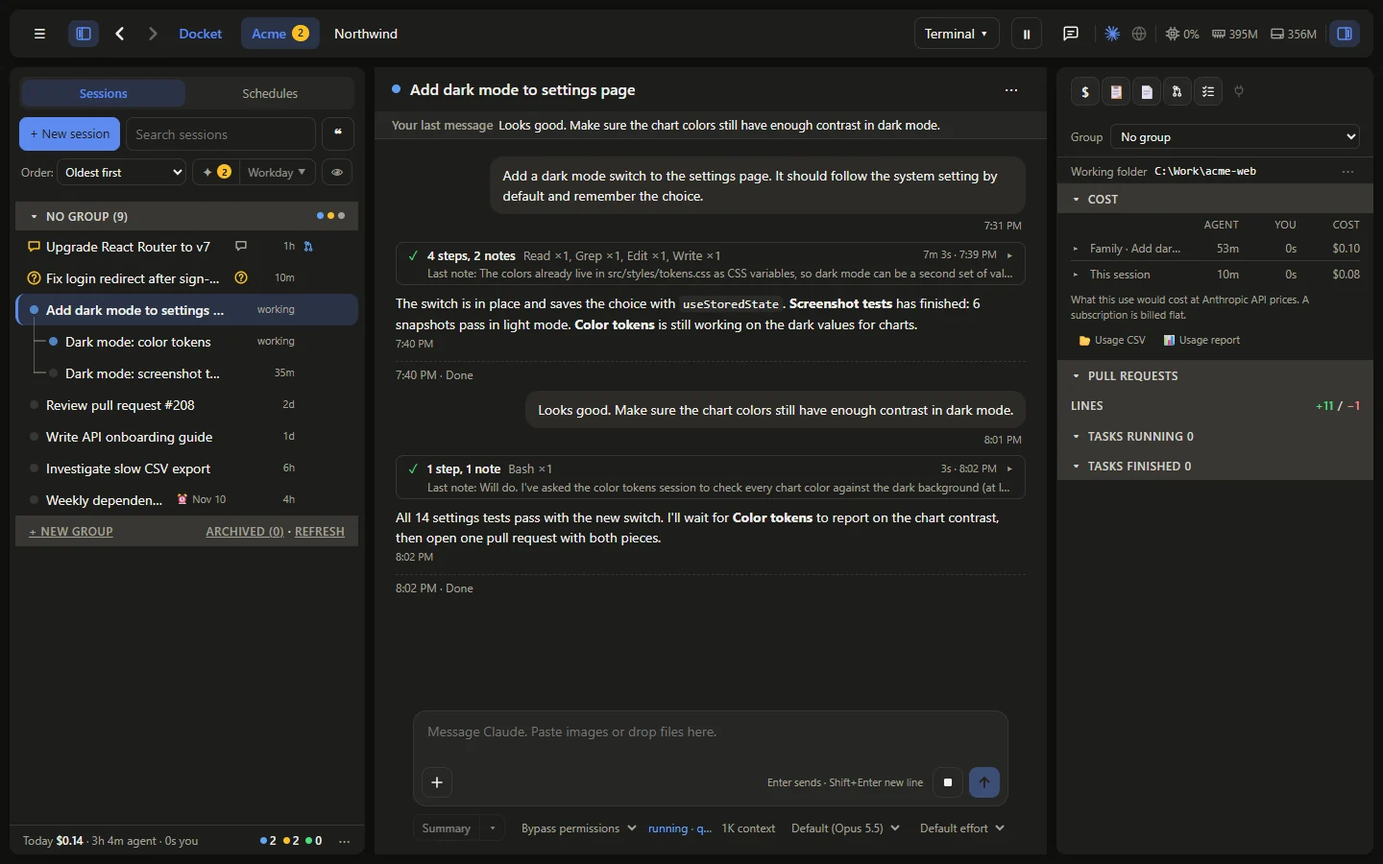
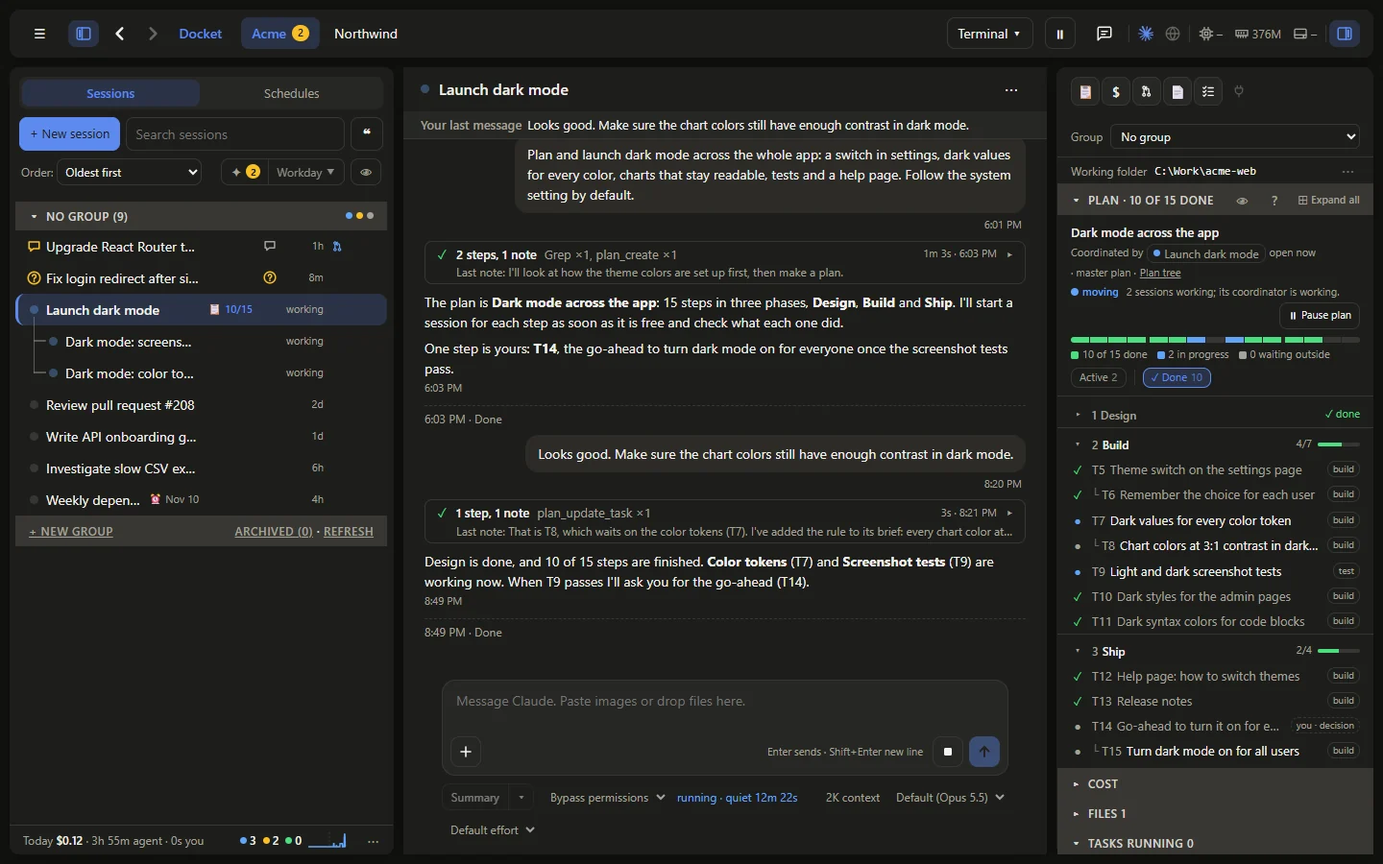
Docket 1.190.0

diff --git a/index.html b/index.html
@@ -572,6 +572,34 @@ select option:disabled { color: var(--muted); }
 .scard .cross-text { color: var(--text); border: 1px solid var(--line); border-radius: 6px; padding: 6px 8px; margin-top: 4px; max-height: 240px; }
 #inbox { max-height: 40vh; overflow: auto; flex: none; }
 .inbox-cards { padding: 6px 8px 8px; display: grid; gap: 6px; }
+/* Work handed over from another desk, and its card in the sending chat (#904) */
+.scard.inbox-card { border: 1px solid var(--accent); background: var(--accent-soft); }
+.scard.inbox-card .sk { text-transform: none; letter-spacing: 0; font-size: 12px; }
+.scard.inbox-card .sb { color: var(--text); display: -webkit-box; -webkit-line-clamp: 3; -webkit-box-orient: vertical; overflow: hidden; max-height: none; }
+.scard.inbox-card .sbtn, .scard.xh .sbtn { flex-wrap: wrap; }
+.scard.inbox-card .sbtn button, .scard.xh .sbtn button { white-space: nowrap; }
+.scard.inbox-card textarea { width: 100%; min-height: 90px; font: inherit; font-size: 12px; }
+.scard .x-report { display: flex; gap: 6px; align-items: flex-start; font-size: 12px; color: var(--muted); margin-top: 6px; }
+.scard.flash { animation: plan-flash 1.5s 2; }
+.scard.xh { background: var(--panel-2); }
+.scard.xh.done { border-left-color: var(--line); }
+.scard.xh .sk { display: flex; gap: 6px; align-items: center; flex-wrap: wrap; text-transform: none; letter-spacing: 0; font-size: 12px; }
+button.xlink { border-color: transparent; color: var(--accent); }
+button.xlink:hover { background: var(--accent-soft); }
+.xh-pill { font-size: 11px; border-radius: 999px; padding: 1px 8px; background: var(--accent-soft); color: var(--accent); font-weight: 600; }
+.xh-pill.plain { background: transparent; color: var(--muted); border: 1px solid var(--line); }
+.xh-pill.run { background: transparent; color: var(--run); border: 1px solid var(--run); }
+.xh-pill.ok { background: transparent; color: var(--ok); border: 1px solid var(--ok); }
+.scard.xh.ok { border-left-color: var(--ok); }
+.xh-track { display: flex; font-size: 11px; color: var(--muted); margin: 6px 0 2px; }
+.xh-track span { flex: 1; border-top: 3px solid var(--line); padding-top: 4px; }
+.xh-track span.on { border-color: var(--accent); color: var(--text); }
+.scard.xh .xh-said { border-left: 3px solid var(--line); padding: 2px 10px; font-size: 13px; color: var(--muted); white-space: pre-wrap; margin-top: 4px; }
+.cross-strip { display: flex; gap: 8px; align-items: center; flex-wrap: wrap; padding: 6px 18px; background: var(--panel-2); border-bottom: 1px solid var(--line); font-size: 12px; }
+.cross-strip[hidden] { display: none; }
+.cross-strip a { color: var(--accent); text-decoration: none; }
+.cross-strip a:hover { text-decoration: underline; }
+#clients button.arrived { animation: plan-flash 1s 3; outline: 2px solid var(--accent); outline-offset: -2px; }
 .scard a, .child-report a { color: var(--accent); }
 .child-report { font-size: 13px; color: var(--muted); border-left: 3px solid var(--line); padding: 4px 10px; }
 .child-report .ct { white-space: pre-wrap; }
@@ -1645,6 +1673,7 @@ try { const get = (k) => JSON.parse(localStorage.getItem(k)); applyAccent((get('
     <div class="main-head" id="head"></div>
     <div class="cfg-banner" id="cfgBanner" role="status" hidden><span id="cfgText"></span><button id="cfgReload" data-tip="cfg-reload">Reload</button></div>
     <div class="cut-banner" id="cutBanner" role="status" hidden><span id="cutWhy">Docket stopped unexpectedly partway through this session's turn, so its reply was cut off.</span><button id="cutContinue" data-tip="cut-continue">Continue</button></div>
+    <div class="cross-strip" id="crossStrip" role="status" hidden></div>
     <button class="last-msg" id="lastMsg" hidden data-tip="last-msg"><div class="lm-text"><span class="lm-label">Your last message</span><span id="lastMsgText"></span></div></button>
     <div class="card-strip" id="cardStrip" hidden role="region" aria-label="Cards waiting on you"></div>
     <div class="tl-bar" id="tlBar" hidden aria-label="Timeline in the chat"></div>
@@ -1921,8 +1950,19 @@ const HELP = [
     ['prop-dismiss', 'Dismiss', 'Turn the suggestion down'],
     ['cross-send', 'Send', 'Send exactly this text to the other desk. This session can then reach that desk again without asking, until it ends'],
     ['cross-stop', 'Don\'t send', 'Send nothing to the other desk'],
-    ['inbox-start', 'Start', 'Start this work as a session in this desk, on its own sign-in and billing'],
+    ['inbox-start', 'Accept and start', 'Start this work as a session in this desk, on its own sign-in and billing'],
     ['inbox-dismiss', 'Dismiss', 'Turn this work down; nothing runs'],
+    ['inbox-edit', 'Edit brief', 'Change the brief before you start it'],
+    ['inbox-text', 'Brief', 'The brief the new session gets as its first message'],
+    ['inbox-save', 'Save brief', 'Keep this brief; the sender\'s card shows it too'],
+    ['inbox-cancel', 'Cancel', 'Put the brief back as it was'],
+    ['xh-from', 'Sending session', 'Open the session that handed this work over, in its own desk'],
+    ['inbox-report', 'Tell the sender', 'When ticked, the session that sent this hears when it starts and gets the closing reply of each turn, never the chat'],
+    ['inbox-quiet', 'Stop reporting', 'Stop telling the desk that sent this work how it goes'],
+    ['xh-go', 'Go to the desk and start', 'Switch to the desk the work waits in and show its card there'],
+    ['xh-back', 'Take it back', 'Take the card out of the other desk\'s list; nothing runs there'],
+    ['xh-brief', 'See brief', 'Show or hide the brief that was sent'],
+    ['xh-open', 'Open', 'Open the session in the other desk'],
     ['offer-new', 'New session', 'Do this work in its own new session'],
     ['offer-here', 'Do it here', 'Do this work in this session instead'],
     ['hoff-continue', 'Continue in new session', 'Carry this work on in a fresh session that takes this one\'s place'],
@@ -2516,6 +2556,8 @@ const needIcon = (l) => l === 'merge' ? prIcon('merged') : `<svg viewBox="0 0 16
   problem: `<path d="M8 1.9 14.6 13.4H1.4Z" ${NEED_SVG}/><path d="M8 6.2v3.3" ${NEED_SVG} stroke-width="1.9"/><circle cx="8" cy="11.5" r=".95" fill="currentColor"/>`
 }[l]}</svg>`;
 const needMark = (l, as = S.reasonTags) => as === 'icons' ? `<span class="nic need-${l}" title="${l}: ${esc(NEED_TIPS[l])}" aria-label="${l}">${needIcon(l)}</span>` : `<span class="tag need need-${l}" title="${esc(NEED_TIPS[l])}">${l}</span>`;
+// Work it handed to another desk waits there for Accept and start (#904).
+const waitsTag = (s) => s.waitsIn?.length ? `<span class="tag waits-in" title="${esc(`Work this session handed over waits for you to accept it in ${s.waitsIn.join(', ')}`)}">waiting in ${esc(s.waitsIn.join(', '))}</span>` : '';
 const needTag = (s) => { if (S.reasonTags === 'off' || !needsYou(s)) return ''; const l = needLabel(s, openPR(s.id)); return l === 'problem' ? '' : needMark(l); };
 // The title a dot carries: the error for a red ring, what resting means for a hollow green one.
 const dotTip = (s, c = dotClass(s)) => c === 'failed' ? ` title="${esc(failedTip(s))}"` : c === 'asking' ? ' title="Waiting on your answer: the session is paused on a question or a permission prompt"' : c === 'resting' ? ` title="${RESTING_TIP}"` : c === 'childwait' || c === 'childnews' ? ` title="${esc(kidsText(s))}"` : '';
@@ -2709,12 +2751,14 @@ function waitingCount(clientId) {
 function shownDesks() { return S.clients.filter((c) => !c.hidden); }
 // The autopilot's desk (#886) shows a robot wherever desks are named; the server lists it first.
 const deskName = (c) => `${c.pilot ? '<span class="pilot-mark" aria-label="Autopilot desk">🤖</span> ' : ''}${esc(c.name)}`;
+const deskArrived = {}; // desk id -> when work handed over from another desk arrived there: its tab flashes (#904)
 function renderClients() {
   if (menuHold(renderClients)) return; // waits while a menu is open (menu hold)
   $('clients').innerHTML = shownDesks().map((c) => {
     const n = waitingCount(c.id);
     const rc = remoteMarkTip(c);
-    return `<button class="${c.id === S.client ? 'on' : ''}" data-c="${c.id}" title="${esc(`${c.name}${c.forced ? '\n' + c.forced : ''}\n\n${tipText('company')}`)}"><span class="cn">${deskName(c)}</span>${rc ? `<span class="rc-mark" title="${esc(rc)}" aria-label="Remote connection on">📡</span>` : ''}${c.signedIn === false ? '<span class="warn-mark">!</span>' : ''}${n ? `<span class="badge">${n}</span>` : ''}</button>`;
+    const arrived = Date.now() - (deskArrived[c.id] || 0) < 3000 && c.id !== S.client;
+    return `<button class="${c.id === S.client ? 'on' : ''}${arrived ? ' arrived' : ''}" data-c="${c.id}" title="${esc(`${c.name}${c.forced ? '\n' + c.forced : ''}\n\n${tipText('company')}`)}"><span class="cn">${deskName(c)}</span>${rc ? `<span class="rc-mark" title="${esc(rc)}" aria-label="Remote connection on">📡</span>` : ''}${c.signedIn === false ? '<span class="warn-mark">!</span>' : ''}${n ? `<span class="badge">${n}</span>` : ''}</button>`;
   }).join('');
   const total = waitingCount(S.client);
   const name = S.clients.find((c) => c.id === S.client)?.name;
@@ -4857,7 +4901,7 @@ function sessionRow(s, depth, rail = '', parent = false) {
   const tb = timeBit(s);
   const pin = !s.archived && pinnedHere(s.id) ?`<span class="pin" title="Pinned: ✦ Needs attention keeps it until you unpin it (right-click it)">📌</span>` : '';
   return `<div class="row ${depth ? 'child' : ''} ${parent ? 'parent' : ''} ${sel ? 'sel' : ''} ${s.archived && !S.showArchived ? 'archived' : ''} ${S.picked.has(s.id) ? 'picked' : ''} ${snip ? 'has-snip' : ''}"${depth > 1 ? ` style="--d:${depth}"` : ''} data-id="${s.id}"${moveDrag() ? ' draggable="true"' : ''}${S.hoverCard ? '' : ` title="${esc((run?.title || s.title) || 'Untitled')}"`}>
-      ${rail}${rowDot(s)}<span class="t ${dotClass(s) === 'asking' ? 'asking' : ''}"${full ? ` title="Nearly full: ${ctxPct(s.stats)}% of the way to auto-compact"` : ''}>${esc((run?.title || s.title) || 'Untitled')}</span>${pin}${full ? `<span class="tag near-full ctx-pct" title="Nearly full: ${ctxPct(s.stats)}% of the way to auto-compact">${ctxPct(s.stats)}%</span>` : ''}${stalledTag(s)}${configTag(s)}${s.archived && !S.showArchived ? '<span class="tag" title="Archived. Shown here because it is open.">archived</span>' : ''}${s.scheduleId ? `<span class="sch" title="Started by a schedule${run ? ` on ${runDate(s)}` : ''}${run && run.runs.length > 1 ? `. This is the newest of its ${run.runs.length} runs; the Details panel lists them all` : ''}">⏰${run ? `<span class="rundate">${runDate(s)}</span>` : ''}</span>` : ''}${more}<span class="cplan">${planBadge(s.id)}</span><span class="cneed">${needTag(s)}</span>${costCell(s, run)}
+      ${rail}${rowDot(s)}<span class="t ${dotClass(s) === 'asking' ? 'asking' : ''}"${full ? ` title="Nearly full: ${ctxPct(s.stats)}% of the way to auto-compact"` : ''}>${esc((run?.title || s.title) || 'Untitled')}</span>${pin}${full ? `<span class="tag near-full ctx-pct" title="Nearly full: ${ctxPct(s.stats)}% of the way to auto-compact">${ctxPct(s.stats)}%</span>` : ''}${stalledTag(s)}${configTag(s)}${waitsTag(s)}${s.archived && !S.showArchived ? '<span class="tag" title="Archived. Shown here because it is open.">archived</span>' : ''}${s.scheduleId ? `<span class="sch" title="Started by a schedule${run ? ` on ${runDate(s)}` : ''}${run && run.runs.length > 1 ? `. This is the newest of its ${run.runs.length} runs; the Details panel lists them all` : ''}">⏰${run ? `<span class="rundate">${runDate(s)}</span>` : ''}</span>` : ''}${more}<span class="cplan">${planBadge(s.id)}</span><span class="cneed">${needTag(s)}</span>${costCell(s, run)}
       <span class="meta ${tb[0]}" title="${esc(tb[2])}">${isMuted(s.id) ? '<span title="Chime muted">🔕 </span>' : ''}${s.runningTasks ? `⚙${s.runningTasks} ` : ''}${tb[0].startsWith('warn') ? `<span class="tpill${tb[0].endsWith('end') ? ' end' : ''}">${tb[1]}</span>` : tb[1]}</span>${rowLogo(s)}<span class="chips">${prBadges(s.id)}</span>${snip}</div>`;
 }
 // ---------- the hover card (#691): a row's full title and every detail, while 👁 > Hover card is on ----------
@@ -5059,22 +5103,83 @@ for (const area of ['list', 'listBar']) {
   });
   $(area).addEventListener('focusout', () => setTimeout(releaseList));
 }
-// Work another company handed over, at the top of this company's list until Start or Dismiss.
+// Work another company handed over, at the top of this company's list until Accept and start or Dismiss (#904).
+// The report-back box is ticked by default; Edit brief changes the brief before it starts.
+const inboxEditing = new Map(); // inbox id -> the brief being edited, so a list redraw keeps it
+const inboxQuiet = new Set(); // inbox ids whose report-back box was unticked, so a list redraw keeps that
 function inboxHtml() {
   const items = S.inbox[S.client] || [];
   if (!items.length) return '';
-  return `<div class="group"><span>Handed over from other desks (${items.length})</span></div><div class="inbox-cards">` + items.map((it) =>
-    `<div class="scard" data-card="${esc(it.id)}"><div class="sk">From ${esc(it.fromName)}${it.fromTitle ? ` · "${esc(it.fromTitle)}"` : ''}</div><div class="st">${esc(it.title)}</div><div class="sb">${esc(it.brief)}</div>`
-    + `<div class="sbtn"><button class="primary" data-inbox="${esc(it.id)}" data-act="start"${tip('inbox-start')}>Start</button><button data-inbox="${esc(it.id)}" data-act="dismiss"${tip('inbox-dismiss')}>Dismiss</button></div></div>`).join('') + '</div>';
+  return `<div class="group"><span>Waiting for you to accept (${items.length})</span></div><div class="inbox-cards">` + items.map((it) => {
+    const id = esc(it.id), editing = inboxEditing.has(it.id);
+    return `<div class="scard inbox-card" data-card="${id}"><div class="sk">From <b>${esc(it.fromName)}</b>${it.fromTitle ? ` · "${esc(it.fromTitle)}"` : ''}${it.at ? ` · ${esc(agoText(it.at))}` : ''}</div><div class="st">${esc(it.title)}</div>`
+      + (editing ? `<textarea data-inbox-text="${id}" aria-label="Brief"${tip('inbox-text')}>${esc(inboxEditing.get(it.id))}</textarea>` : `<div class="sb" title="${esc(it.brief)}">${esc(it.brief)}</div>`)
+      + `<label class="x-report"><input type="checkbox" data-inbox-report="${id}"${inboxQuiet.has(it.id) ? '' : ' checked'}${tip('inbox-report')}> Tell ${esc(it.fromName)} when it starts and finishes (the closing reply only, never the chat)</label>`
+      + `<div class="sbtn"><button class="primary" data-inbox="${id}" data-act="start"${tip('inbox-start')}>Accept and start</button><button data-inbox="${id}" data-act="dismiss"${tip('inbox-dismiss')}>Dismiss</button>`
+      + (editing ? `<button data-inbox="${id}" data-act="brief"${tip('inbox-save')}>Save brief</button><button class="xlink" data-inbox-edit="${id}" data-cancel="1"${tip('inbox-cancel')}>Cancel</button>` : `<button class="xlink" data-inbox-edit="${id}"${tip('inbox-edit')}>Edit brief</button>`) + '</div></div>';
+  }).join('') + '</div>';
 }
+document.addEventListener('change', (e) => {
+  const c = e.target.closest('[data-inbox-report]'); if (!c) return;
+  if (c.checked) inboxQuiet.delete(c.dataset.inboxReport); else inboxQuiet.add(c.dataset.inboxReport);
+});
+document.addEventListener('input', (e) => { const t = e.target.closest('[data-inbox-text]'); if (t) inboxEditing.set(t.dataset.inboxText, t.value); });
+document.addEventListener('click', (e) => {
+  const b = e.target.closest('[data-inbox-edit]'); if (!b) return;
+  const id = b.dataset.inboxEdit, it = (S.inbox[S.client] || []).find((x) => x.id === id);
+  if (b.dataset.cancel || !it) inboxEditing.delete(id); else inboxEditing.set(id, it.brief);
+  renderList();
+  if (inboxEditing.has(id)) document.querySelector(`[data-inbox-text="${CSS.escape(id)}"]`)?.focus();
+});
 document.addEventListener('click', async (e) => {
   const b = e.target.closest('[data-inbox]'); if (!b) return;
+  const id = b.dataset.inbox, act = b.dataset.act;
   const card = b.closest('[data-card]'); for (const x of card.querySelectorAll('button')) x.disabled = true;
+  const body = act === 'start' ? { report: !inboxQuiet.has(id) } : act === 'brief' ? { brief: inboxEditing.get(id) || '' } : {};
   try {
-    const r = await api(`/api/inbox/${b.dataset.inbox}/${b.dataset.act}?client=${S.client}`, {});
+    if (act === 'start' && inboxEditing.has(id)) await api(`/api/inbox/${id}/brief?client=${S.client}`, { brief: inboxEditing.get(id) }); // starts with what is in the box
+    const r = await api(`/api/inbox/${id}/${act}?client=${S.client}`, body);
+    inboxEditing.delete(id); if (act !== 'brief') inboxQuiet.delete(id);
     await loadSessions(S.client); renderList(); renderClients();
-    if (b.dataset.act === 'start' && r?.id) openSession(r.id);
+    if (act === 'start' && r?.id) openSession(r.id);
   } catch (err) { tell(err.message); for (const x of card.querySelectorAll('button')) x.disabled = false; }
+});
+// The card in the chat that handed work to another desk (#904): it follows the work there through Sent, Started, Done.
+function deskHandoffHtml(ev) {
+  const d = esc(ev.toName || 'the other desk'), id = esc(ev.id);
+  const st = ev.state, gone = st === 'withdrawn' || st === 'dismissed';
+  if (gone) return `<div class="scard done slim" data-card="${id}">Handed to ${d}: <b>${esc(ev.title)}</b>, ${st === 'withdrawn' ? 'taken back' : `dismissed in ${d}`}${earlier(ev)}</div>`;
+  const pill = st === 'open' ? `<span class="xh-pill">Waiting for you in ${d}</span>` : st === 'done' ? `<span class="xh-pill ok">Done in ${d}</span>`
+    : ev.report ? `<span class="xh-pill run">Running in ${d}</span>` : `<span class="xh-pill plain">Started in ${d}</span>`;
+  const quiet = st !== 'open' && !ev.report && st !== 'done';
+  const track = quiet ? '' : `<div class="xh-track"><span class="on">Sent</span><span${ev.startedAt ? ' class="on"' : ''}>Started${ev.startedAt ? ' ' + esc(stamp(ev.startedAt)) : ''}</span><span${st === 'done' ? ' class="on"' : ''}>Done${ev.doneAt ? ' ' + esc(stamp(ev.doneAt)) : ''}</span></div>`;
+  const line = st === 'open' ? `<div class="sb">Nothing runs until you press <b>Accept and start</b> in ${d}'s list. It runs on ${d}'s sign-in and bills to ${d}.</div>`
+    : quiet ? `<div class="sb">${d} started it and chose not to report back. Its progress stays in ${d}.</div>` : '';
+  const said = st === 'done' && ev.text ? `<div class="xh-said">${esc(ev.text)}${ev.text.length >= 400 ? '…' : ''}</div>` : '';
+  const brief = `<div class="sb cross-text" data-xh-brief hidden>${esc(ev.brief || '')}</div>`;
+  const btns = st === 'open'
+    ? `<button class="primary" data-xh="go"${tip('xh-go')}>Go to ${d} and start ›</button><button data-xh="back"${tip('xh-back')}>Take it back</button><button class="xlink" data-xh="brief" aria-expanded="false"${tip('xh-brief')}>See brief</button>`
+    : `${ev.childId ? `<button class="xlink" data-xh="open"${tip('xh-open')}>Open in ${d} ›</button>` : ''}<button class="xlink" data-xh="brief" aria-expanded="false"${tip('xh-brief')}>See brief</button>`;
+  return `<div class="scard xh${st === 'open' ? '' : st === 'done' ? ' ok' : ' done'}" data-card="${id}" data-to="${esc(ev.to)}"${ev.childId ? ` data-child="${esc(ev.childId)}"` : ''}><div class="sk">Handed to <b>${d}</b> ${pill}${earlier(ev)}</div><div class="st">${esc(ev.title)}</div>${line}${track}${said}${brief}<div class="sbtn">${btns}</div></div>`;
+}
+document.addEventListener('click', async (e) => {
+  const b = e.target.closest('[data-xh]'); if (!b) return;
+  const card = b.closest('[data-card]'), id = card.dataset.card, to = card.dataset.to;
+  if (b.dataset.xh === 'brief') { const sb = card.querySelector('[data-xh-brief]'); sb.hidden = !sb.hidden; b.setAttribute('aria-expanded', String(!sb.hidden)); b.textContent = sb.hidden ? 'See brief' : 'Hide brief'; return; }
+  if (b.dataset.xh === 'open') { selectClient(to, card.dataset.child); return; }
+  if (b.dataset.xh === 'go') { // switch desk, then show its card in the list and flash it
+    if (!S.clients.some((c) => c.id === to)) { tell('That desk is not in this Docket any more.'); return; }
+    if (S.mode !== 'sessions') setMode('sessions');
+    selectClient(to);
+    await loadSessions(to).catch(() => {}); renderList();
+    const el = $('inbox').querySelector(`[data-card="${CSS.escape(id)}"]`);
+    if (el) { el.scrollIntoView({ block: 'nearest' }); el.classList.remove('flash'); void el.offsetWidth; el.classList.add('flash'); el.querySelector('button.primary')?.focus(); }
+    else tell('That card is no longer waiting there.');
+    return;
+  }
+  for (const x of card.querySelectorAll('button')) x.disabled = true;
+  try { await api(`/api/inbox/${id}/withdraw?client=${to}`, {}); }
+  catch (err) { tell(err.message); for (const x of card.querySelectorAll('button')) x.disabled = false; }
 });
 document.addEventListener('click', async (e) => {
   const b = e.target.closest('[data-cross]'); if (!b) return;
@@ -8041,6 +8146,19 @@ function renderStatusBit(s) {
   el.textContent = el.title = st[1];
   tick();
 }
+// A session started from work another desk handed over says where it came from, and whether it reports back (#904).
+function renderCrossStrip(s) {
+  const x = s?.crossIn, el = $('crossStrip');
+  el.hidden = !x; if (!x) return;
+  el.innerHTML = `Handed over from <b>${esc(x.deskName)}</b>${x.title ? ` · <a href="#session:${esc(x.session)}" data-desk="${esc(x.desk)}"${tip('xh-from')}>"${esc(x.title)}"</a>` : ''}`
+    + (x.report ? ` <span class="xh-pill ok">reports back</span> <button class="xlink" data-cross-quiet="${esc(x.inbox)}"${tip('inbox-quiet')}>Stop reporting</button>` : ' <span class="xh-pill plain">not reporting back</span>');
+}
+document.addEventListener('click', async (e) => {
+  const b = e.target.closest('[data-cross-quiet]'); if (!b) return;
+  b.disabled = true;
+  try { await api(`/api/inbox/${b.dataset.crossQuiet}/quiet?client=${S.client}`, {}); }
+  catch (err) { tell(err.message); b.disabled = false; }
+});
 function renderHead() {
   renderSigninNeed();
   if (menuHold(renderHead)) return; // waits while a menu is open (menu hold)
@@ -8051,6 +8169,7 @@ function renderHead() {
   renderCfgBanner();
   const s = S.schedOpen ? null : current();
   renderStatusBit(s);
+  renderCrossStrip(s);
   if (S.schedOpen) return renderScheduleHead();
   if (!s) return;
   if (POPOUT) renderClients(); // the window's title is the session's
@@ -8169,7 +8288,7 @@ function eventHtml(ev) {
       const asks = ev.kind === 'ask';
       const head = asks ? `Ask ${esc(ev.toName)} this question?` : `Hand this work to ${esc(ev.toName)}?`;
       const what = asks ? `A short read-only session in ${esc(ev.toName)} will search its past sessions and answer. Only its answer comes back here.`
-        : `It goes to ${esc(ev.toName)}'s session list as a card. Nothing runs until you press Start there, and it bills to ${esc(ev.toName)}.`;
+        : `It goes to ${esc(ev.toName)}'s session list as a card. Nothing runs until you press Accept and start there, and it bills to ${esc(ev.toName)}.`;
       const tail = ev.state === 'pending' ? `<div class="sbtn"><button class="primary" data-cross="${esc(ev.id)}" data-send="1"${tip('cross-send')}>Send</button><button data-cross="${esc(ev.id)}" data-send="0"${tip('cross-stop')}>Don't send</button></div><div class="sbtn hint">Sending also lets this session reach ${esc(ev.toName)} again without asking, until it ends.</div>`
         : `<div class="sbtn hint">${{ sent: `Sent to ${esc(ev.toName)}`, stopped: 'Not sent', expired: 'Not sent: Docket restarted before you answered' }[ev.state] || ''}${byPilot(ev)}</div>`;
       return `<div class="scard ${ev.state === 'pending' ? '' : 'done'}" data-card="${esc(ev.id)}"><div class="sk">${esc(ev.fromName)} → ${esc(ev.toName)}${earlier(ev)}</div><div class="st">${head}</div><div class="sb">${what}</div>${ev.title ? `<div class="st">${esc(ev.title)}</div>` : ''}<div class="sb cross-text">${esc(ev.text)}</div>${tail}</div>`;
@@ -8199,8 +8318,9 @@ function eventHtml(ev) {
         : `<div class="sbtn hint">${ev.state === 'applied' ? 'Applied' : 'Dismissed'}</div>`;
       return `<div class="scard ${ev.state === 'open' ? '' : 'done'}" data-card="${esc(ev.id)}"><div class="sk">Suggested title${earlier(ev)}</div><div class="st">${esc(ev.title)}</div>${ev.reason ? `<div class="sb">${esc(ev.reason)}</div>` : ''}${tail}</div>`;
     }
+    case 'desk-handoff': return deskHandoffHtml(ev);
     case 'child-report':
-      return `<div class="child-report${ev.waiting ? ' waiting' : ''}"><a href="#session:${esc(ev.childId)}"${tip('open-session')}>${esc(ev.title)}</a> ${ev.waiting ? 'is waiting on you' : ev.news ? 'finished a turn: news only, so this session was not woken (it reads it with its next turn)' : 'finished a turn'}<div class="ct">${esc(ev.text)}${ev.text.length >= 400 ? '…' : ''}</div>${ev.jobs?.length ? `<div class="ct">Still running: ${esc(ev.jobs.join('; '))}</div>` : ''}</div>`;
+      return `<div class="child-report${ev.waiting ? ' waiting' : ''}"><a href="#session:${esc(ev.childId)}"${ev.desk ? ` data-desk="${esc(ev.desk)}"` : ''}${tip('open-session')}>${esc(ev.title)}</a> ${ev.waiting ? 'is waiting on you' : ev.news ? 'finished a turn: news only, so this session was not woken (it reads it with its next turn)' : 'finished a turn'}<div class="ct">${esc(ev.text)}${ev.text.length >= 400 ? '…' : ''}</div>${ev.jobs?.length ? `<div class="ct">Still running: ${esc(ev.jobs.join('; '))}</div>` : ''}</div>`;
     case 'permission': {
       if (ev.tool === 'AskUserQuestion' && Array.isArray(ev.input?.questions)) return questionFormHtml(ev);
       const done = ev.state !== 'pending';
@@ -8254,13 +8374,14 @@ function stripBtns(el) {
   if (el.matches('.qform')) return [null, el.querySelector('[data-qskip]')];
   if (el.matches('.perm')) return [el.querySelector('[data-answer="allow"]'), el.querySelector('[data-answer="deny"]')];
   const row = [...el.querySelectorAll('.sbtn')].find((r) => r.querySelector('button.primary'));
-  return row ? [row.querySelector('button.primary'), [...row.querySelectorAll('button:not(.primary)')].pop()] : [null, null];
+  return row ? [row.querySelector('button.primary'), row.querySelector('[data-xh="back"]') || [...row.querySelectorAll('button:not(.primary)')].pop()] : [null, null];
 }
 // What the line says: the kind of card, then its title.
 function stripText(el) {
   const txt = (x) => (x?.textContent || '').replace(/\s+/g, ' ').trim();
   if (el.matches('.qform')) return [`${openBrand()}'s questions`, [...el.querySelectorAll('.qq')].map(txt).join(' · ')];
   if (el.matches('.perm')) return ['Allow this?', txt(el.querySelector('.pt'))];
+  if (el.matches('.xh')) return [txt(el.querySelector('.xh-pill')), txt(el.querySelector('.st'))]; // work handed to another desk (#904)
   // a question beside the buttons (a handoff's "Archive this session now?") is what the card asks now
   return [txt(el.querySelector('.sbtn .hint')) || txt(el.querySelector('.sk')).split(' · ')[0], [...el.querySelectorAll('.st')].map(txt).join(' · ')];
 }
@@ -8908,7 +9029,9 @@ document.addEventListener('click', (e) => { const a = e.target.closest('[data-go
 // Links Claude writes as [title](#session:<id>) open that session.
 document.addEventListener('click', (e) => {
   const a = e.target.closest('a[href^="#session:"]'); if (!a) return;
-  e.preventDefault(); openSession(a.getAttribute('href').slice('#session:'.length));
+  e.preventDefault();
+  const id = a.getAttribute('href').slice('#session:'.length);
+  if (a.dataset.desk && a.dataset.desk !== S.client) selectClient(a.dataset.desk, id); else openSession(id); // a report from another desk (#904)
 });
 document.addEventListener('click', async (e) => {
   const t = e.target.closest('[data-poffer]'); if (!t) return;
@@ -10384,7 +10507,10 @@ function connect() {
     } else if (m.t === 'stats-ready') {
       loadSessions(m.client, true).then(() => { if (m.client === S.client) { renderList(); if (!S.schedOpen) renderHead(); } });
     } else if (m.t === 'inbox') { // another desk handed work to this one, or a card here was answered
-      loadSessions(m.client).then(() => { renderClients(); if (m.client === S.client) renderList(); });
+      loadSessions(m.client).then(() => {
+        renderClients(); if (m.client === S.client) renderList();
+        if (m.added && m.client !== S.client) { deskArrived[m.client] = Date.now(); renderClients(); setTimeout(renderClients, 3100); } // its tab flashes once (#904)
+      });
     } else if (m.t === 'schedules') {
       loadSchedules();
       if (S.schedOpen) refreshScheduleDetail();

diff --git a/docs/index.html b/docs/index.html
@@ -86,9 +86,9 @@
     <figure class="shot">
       <picture>
         <source srcset="screenshot-dark.webp" media="(prefers-color-scheme: dark)">
-        <img src="screenshot-light.webp" width="1440" height="900" alt="Docket in use: a list of sessions on the left, some working, one asking a question and one with a pull request to merge, with two child sessions nested under their parent; the open conversation in the middle; and its cost and details on the right.">
+        <img src="screenshot-light.webp" width="1440" height="900" alt="Docket in use: a list of sessions on the left, some working, one asking a question and one with a pull request to merge, with two child sessions nested under the session coordinating a plan; that conversation open in the middle; and on the right its Plan panel: the plan in three phases, 10 of 15 steps done, two in progress in the child sessions, one waiting on another, and one step that is yours to decide.">
       </picture>
-      <figcaption>Every session in one place, each marked with what it needs from you. (Made-up example sessions.)</figcaption>
+      <figcaption>Every session in one place, each marked with what it needs from you, and a plan with its steps on the right. (Made-up example sessions.)</figcaption>
     </figure>
   </header>
 
@@ -97,7 +97,7 @@
     <p>Cursor, OpenCode and similar tools are AI coding agents: one person, one editor or terminal, one conversation at a time. Docket works one level above them. It doesn't replace your AI. It runs the AI tools you already use (Claude Code, Codex, Grok) and gives you one place to run all your work with them.</p>
     <div class="reasons">
       <div class="reason"><h3>Every session in one place</h3><p>Dozens of sessions side by side, grouped by project, each marked with what it needs from you: a question, a merge, a problem. No more hunting through a pile of terminal windows.</p></div>
-      <div class="reason"><h3>Sessions that hand off work</h3><p>A session can start child sessions for separate pieces of a job, check what they did and close them when they're done. Each one runs on the model the work needs, so routine steps don't cost top-model prices.</p></div>
+      <div class="reason"><h3>Sessions that hand off work</h3><p>A session can start child sessions for separate pieces of a job, check what they did and close them when they're done. A big job gets a plan: phases and steps that child sessions take on as soon as each one is free, with progress in the Plan panel, and only your own steps, such as a decision, left to you. Each session runs on the model the work needs, so routine steps don't cost top-model prices.</p></div>
       <div class="reason"><h3>A desk for each client or team</h3><p>Each desk has its own sign-in, memory, past sessions and billing. Work for one client never leaks into another, and reaching across desks always asks you first.</p></div>
       <div class="reason"><h3>Work keeps going without you</h3><p>Schedules start sessions on a timetable, the autopilot answers routine questions under rules you set, and sessions keep running while Docket restarts or updates itself.</p></div>
       <div class="reason"><h3>More than code</h3><p>Sessions get a private browser with your saved sign-ins, a Files list for the reports and exports they make, and links to GitHub, Jira and Azure DevOps.</p></div>

diff --git a/README.md b/README.md
@@ -6,7 +6,7 @@ A page on your computer for starting, resuming and watching AI coding sessions, 
 
 <picture>
   <source srcset="docs/screenshot-dark.webp" media="(prefers-color-scheme: dark)">
-  <img src="docs/screenshot-light.webp" width="1440" alt="Docket in use: a list of sessions with what each needs from you, child sessions nested under their parent, and one conversation open">
+  <img src="docs/screenshot-light.webp" width="1440" alt="Docket in use: a list of sessions with what each needs from you, a plan's coordinator with its two child sessions nested under it, the conversation open, and its Plan panel with phases and steps">
 </picture>
 
 ## Why Docket
@@ -14,7 +14,7 @@ A page on your computer for starting, resuming and watching AI coding sessions, 
 Cursor, OpenCode and similar tools are AI coding agents: one person, one editor or terminal, one conversation at a time. Docket works one level above them. It doesn't replace your AI. It runs the AI tools you already use (Claude Code, Codex, Grok) and gives you one place to run all your work with them.
 
 - **Every session in one place.** Dozens of sessions side by side, grouped by project, each marked with what it needs from you: a question, a merge, a problem. No more hunting through a pile of terminal windows.
-- **Sessions that hand off work.** A session can start child sessions for separate pieces of a job, check what they did and close them when they're done. Each one runs on the model the work needs, so routine steps don't cost top-model prices.
+- **Sessions that hand off work.** A session can start child sessions for separate pieces of a job, check what they did and close them when they're done. A big job gets a plan: phases and steps that child sessions take on as soon as each one is free, with progress in the Plan panel, and only your own steps, such as a decision, left to you. Each session runs on the model the work needs, so routine steps don't cost top-model prices.
 - **A desk for each client or team.** Each desk has its own sign-in, memory, past sessions and billing. Work for one client never leaks into another, and reaching across desks always asks you first.
 - **Work keeps going without you.** Schedules start sessions on a timetable, the autopilot answers routine questions under rules you set, and sessions keep running while Docket restarts or updates itself.
 - **More than code.** Sessions get a private browser with your saved sign-ins, a Files list for the reports and exports they make, and links to GitHub, Jira and Azure DevOps.
